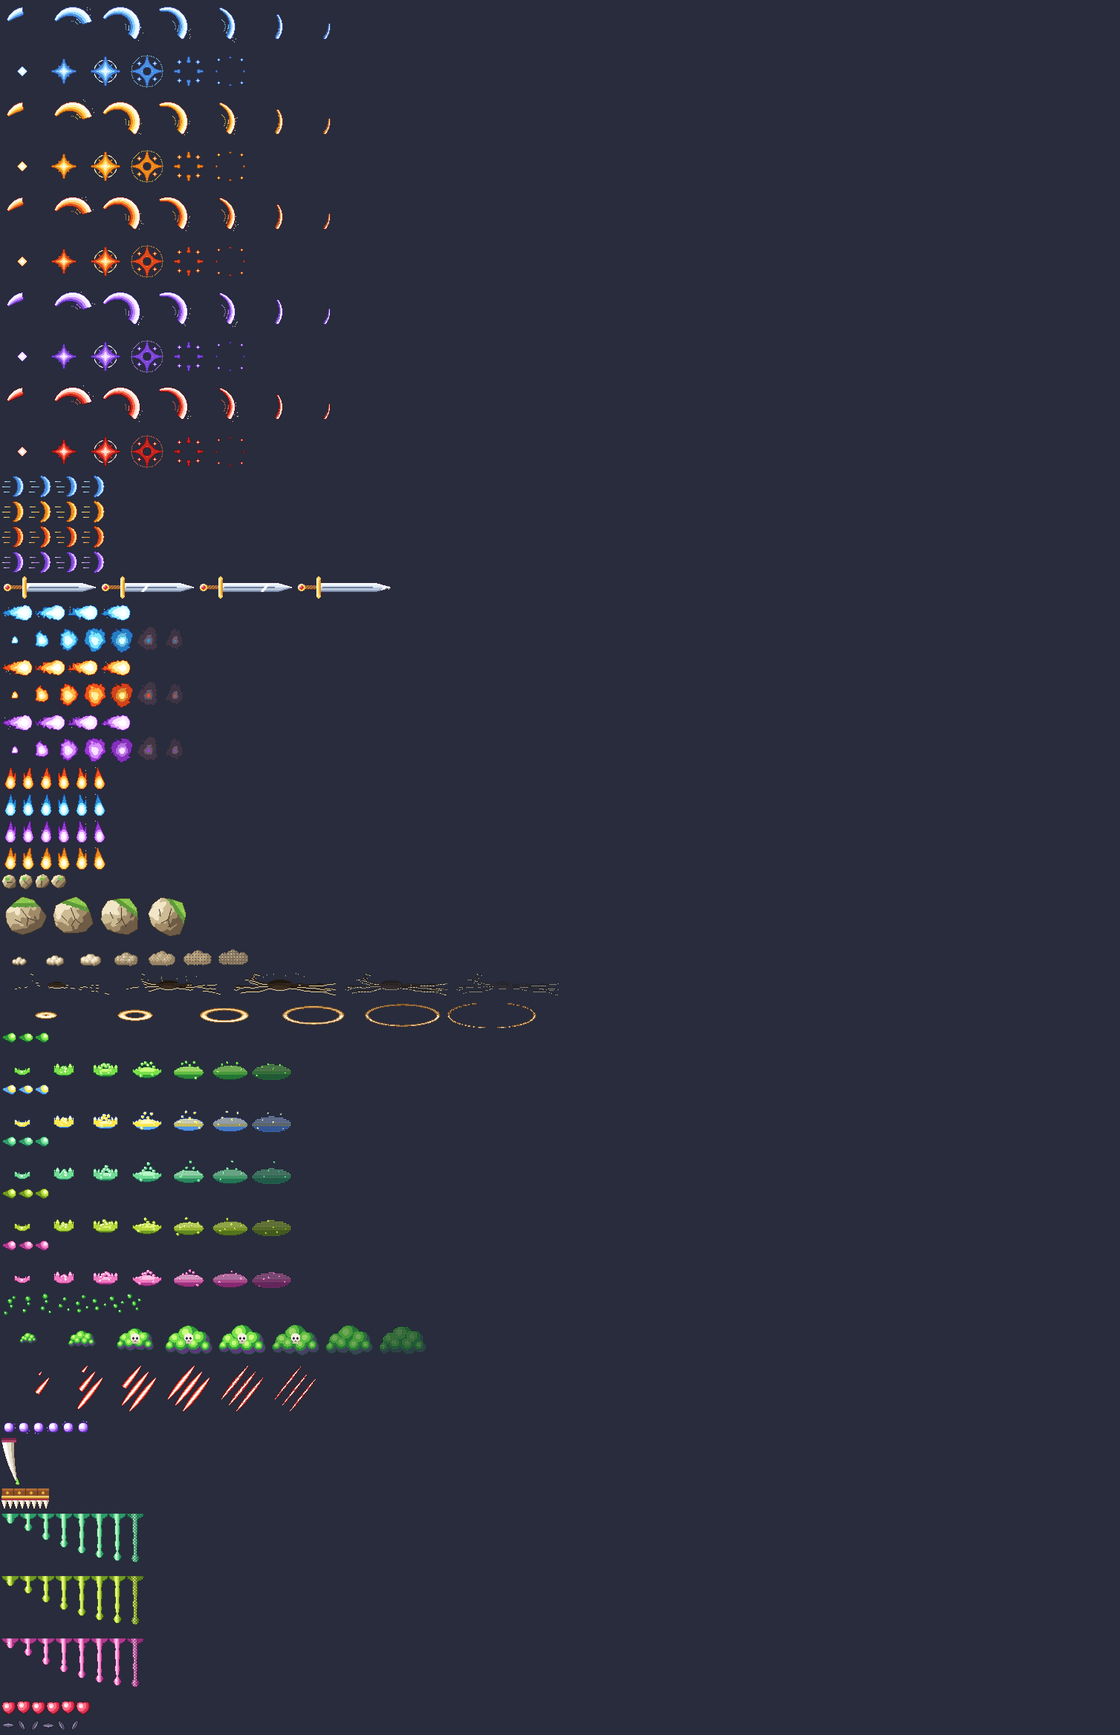
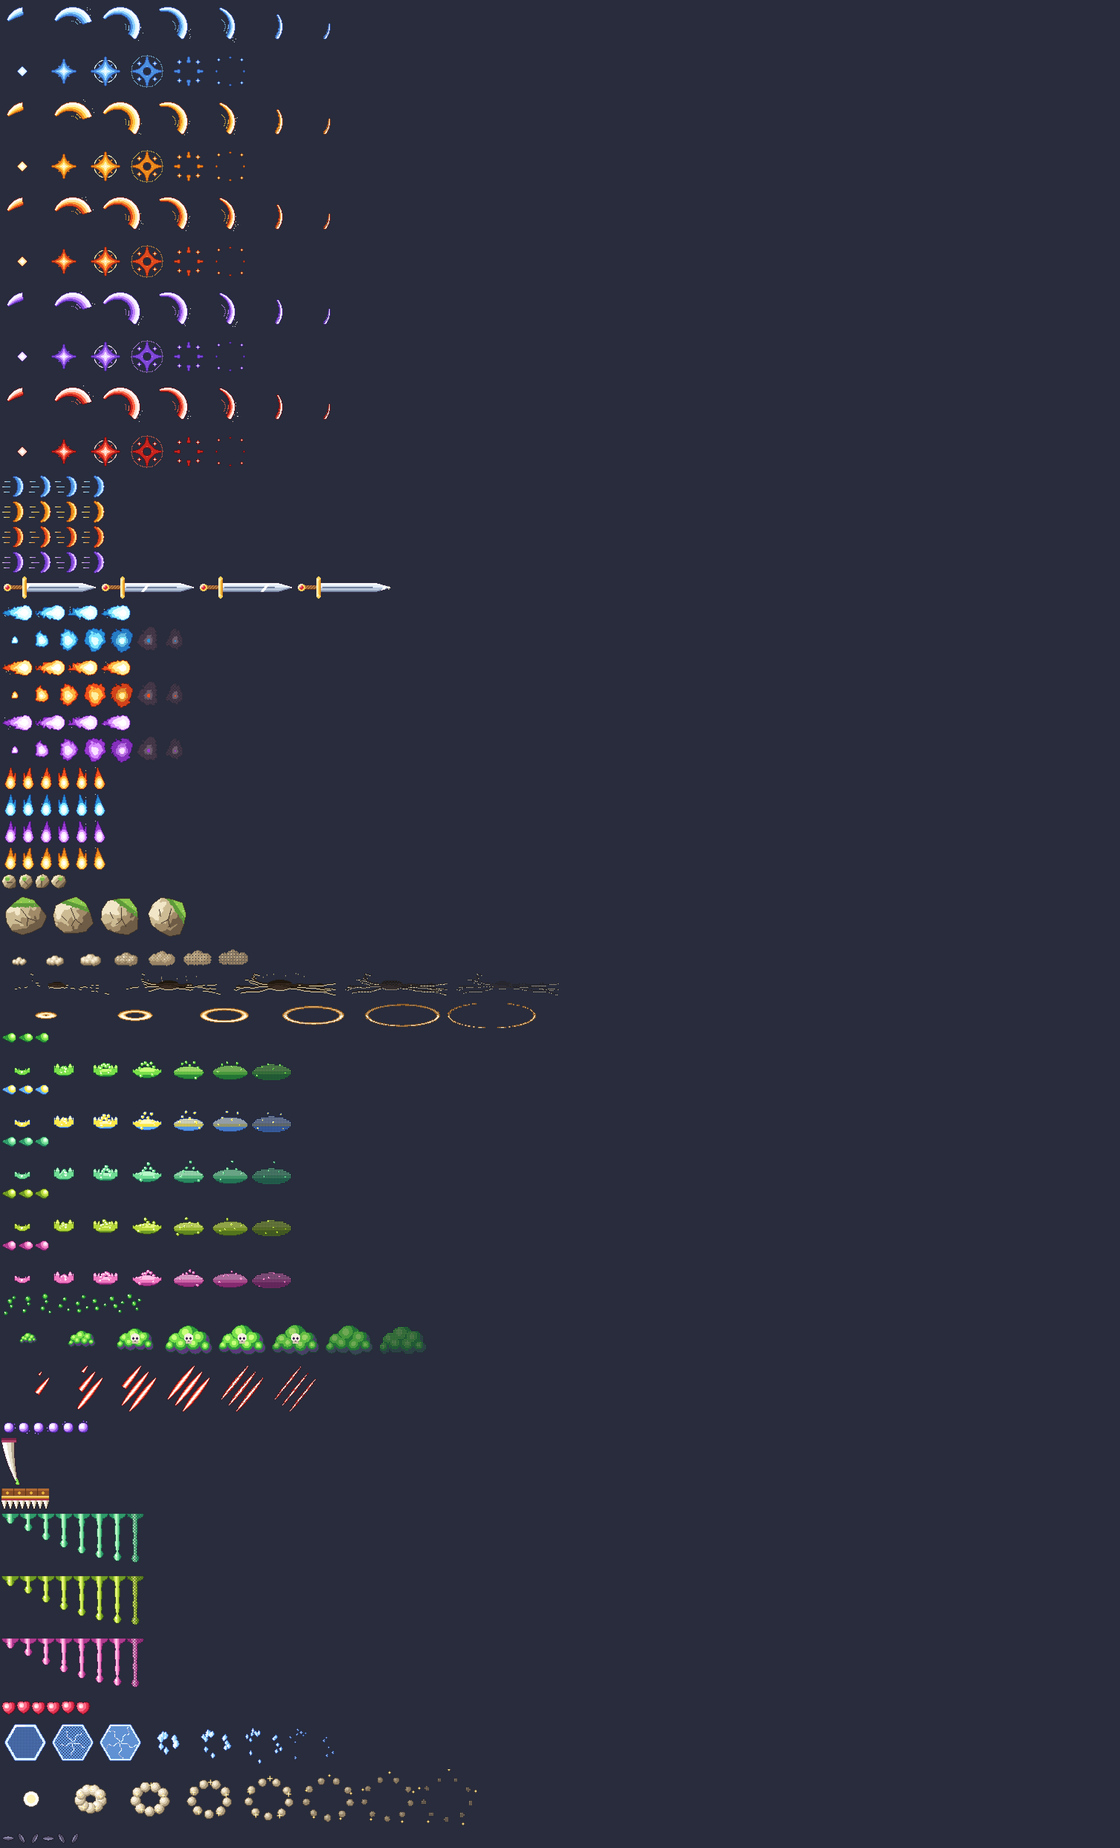
Escudo em pixel art, corações na cura, puf de vitória e lâmina de ouro do estágio 4
- o golpe próprio do vilão (pedra, gota, bola de fogo, orbe) bate na bolha
  hexagonal do escudo, que racha e voa em cacos
- cura com corações em pixel subindo do herói
- vilão derrubado some num puf de fumaça com estrelas (maior no chefe)
- herói a partir do estágio 4 golpeia com a lâmina de ouro

Claude-Session: https://claude.ai/code/session_01Wy17hPtRMz9sgRLvNPhYVz

Changed region(s): [[0.0, 0.0, 0.4052, 1.0]]

diff --git a/src/flashcards/efeitos/vfxIndice.ts b/src/flashcards/efeitos/vfxIndice.ts
@@ -3,4 +3,4 @@
  * Gerado por scripts/sprites/vfx.py: não edite à mão.
  */
 export interface MetaVfx { w: number; h: number; n: number; ms: number; ancora: [number, number]; loop: boolean }
-export const VFX: Record<string, MetaVfx> = {"corte-azul": {"w": 64, "h": 64, "n": 7, "ms": 45, "ancora": [32, 32], "loop": false}, "faisca-azul": {"w": 56, "h": 56, "n": 6, "ms": 50, "ancora": [28, 28], "loop": false}, "corte-ouro": {"w": 64, "h": 64, "n": 7, "ms": 45, "ancora": [32, 32], "loop": false}, "faisca-ouro": {"w": 56, "h": 56, "n": 6, "ms": 50, "ancora": [28, 28], "loop": false}, "corte-fogo": {"w": 64, "h": 64, "n": 7, "ms": 45, "ancora": [32, 32], "loop": false}, "faisca-fogo": {"w": 56, "h": 56, "n": 6, "ms": 50, "ancora": [28, 28], "loop": false}, "corte-arcano": {"w": 64, "h": 64, "n": 7, "ms": 45, "ancora": [32, 32], "loop": false}, "faisca-arcano": {"w": 56, "h": 56, "n": 6, "ms": 50, "ancora": [28, 28], "loop": false}, "corte-sangue": {"w": 64, "h": 64, "n": 7, "ms": 45, "ancora": [32, 32], "loop": false}, "faisca-sangue": {"w": 56, "h": 56, "n": 6, "ms": 50, "ancora": [28, 28], "loop": false}, "lamina-azul": {"w": 36, "h": 30, "n": 4, "ms": 60, "ancora": [24, 15], "loop": true}, "lamina-ouro": {"w": 36, "h": 30, "n": 4, "ms": 60, "ancora": [24, 15], "loop": true}, "lamina-fogo": {"w": 36, "h": 30, "n": 4, "ms": 60, "ancora": [24, 15], "loop": true}, "lamina-arcano": {"w": 36, "h": 30, "n": 4, "ms": 60, "ancora": [24, 15], "loop": true}, "espada": {"w": 132, "h": 30, "n": 4, "ms": 70, "ancora": [6, 15], "loop": false}, "bolafogo-fatuo": {"w": 44, "h": 30, "n": 4, "ms": 70, "ancora": [31, 15], "loop": true}, "labareda-fatuo": {"w": 36, "h": 36, "n": 7, "ms": 60, "ancora": [18, 18], "loop": false}, "bolafogo-escarlate": {"w": 44, "h": 30, "n": 4, "ms": 70, "ancora": [31, 15], "loop": true}, "labareda-escarlate": {"w": 36, "h": 36, "n": 7, "ms": 60, "ancora": [18, 18], "loop": false}, "bolafogo-ancestral": {"w": 44, "h": 30, "n": 4, "ms": 70, "ancora": [31, 15], "loop": true}, "labareda-ancestral": {"w": 36, "h": 36, "n": 7, "ms": 60, "ancora": [18, 18], "loop": false}, "chama-escarlate": {"w": 24, "h": 32, "n": 6, "ms": 90, "ancora": [12, 30], "loop": true}, "chama-fatuo": {"w": 24, "h": 32, "n": 6, "ms": 90, "ancora": [12, 30], "loop": true}, "chama-ancestral": {"w": 24, "h": 32, "n": 6, "ms": 90, "ancora": [12, 30], "loop": true}, "chama-ouro": {"w": 24, "h": 32, "n": 6, "ms": 90, "ancora": [12, 30], "loop": true}, "pedra": {"w": 22, "h": 22, "n": 4, "ms": 70, "ancora": [11, 11], "loop": true}, "pedregulho": {"w": 64, "h": 64, "n": 4, "ms": 90, "ancora": [32, 32], "loop": true}, "poeira": {"w": 48, "h": 32, "n": 7, "ms": 70, "ancora": [24, 30], "loop": false}, "rachadura": {"w": 150, "h": 40, "n": 5, "ms": 80, "ancora": [75, 20], "loop": false}, "choque": {"w": 120, "h": 34, "n": 6, "ms": 55, "ancora": [60, 17], "loop": false}, "gota-veneno": {"w": 22, "h": 18, "n": 3, "ms": 80, "ancora": [13, 9], "loop": true}, "respingo-veneno": {"w": 56, "h": 44, "n": 7, "ms": 60, "ancora": [28, 34], "loop": false}, "gota-eletrico": {"w": 22, "h": 18, "n": 3, "ms": 80, "ancora": [13, 9], "loop": true}, "respingo-eletrico": {"w": 56, "h": 44, "n": 7, "ms": 60, "ancora": [28, 34], "loop": false}, "gota-gosma": {"w": 22, "h": 18, "n": 3, "ms": 80, "ancora": [13, 9], "loop": true}, "respingo-gosma": {"w": 56, "h": 44, "n": 7, "ms": 60, "ancora": [28, 34], "loop": false}, "gota-acida": {"w": 22, "h": 18, "n": 3, "ms": 80, "ancora": [13, 9], "loop": true}, "respingo-acida": {"w": 56, "h": 44, "n": 7, "ms": 60, "ancora": [28, 34], "loop": false}, "gota-rainha": {"w": 22, "h": 18, "n": 3, "ms": 80, "ancora": [13, 9], "loop": true}, "respingo-rainha": {"w": 56, "h": 44, "n": 7, "ms": 60, "ancora": [28, 34], "loop": false}, "bolhas": {"w": 24, "h": 34, "n": 8, "ms": 110, "ancora": [12, 17], "loop": true}, "nuvem-veneno": {"w": 72, "h": 56, "n": 8, "ms": 80, "ancora": [36, 28], "loop": false}, "garras": {"w": 72, "h": 72, "n": 6, "ms": 45, "ancora": [36, 36], "loop": false}, "orbe": {"w": 20, "h": 20, "n": 6, "ms": 70, "ancora": [10, 10], "loop": true}, "presa": {"w": 30, "h": 64, "n": 1, "ms": 100, "ancora": [10, 0], "loop": false}, "mandibula": {"w": 64, "h": 30, "n": 1, "ms": 100, "ancora": [32, 0], "loop": false}, "escorre-gosma": {"w": 24, "h": 80, "n": 8, "ms": 90, "ancora": [12, 0], "loop": false}, "escorre-acida": {"w": 24, "h": 80, "n": 8, "ms": 90, "ancora": [12, 0], "loop": false}, "escorre-rainha": {"w": 24, "h": 80, "n": 8, "ms": 90, "ancora": [12, 0], "loop": false}, "coracao": {"w": 20, "h": 20, "n": 6, "ms": 90, "ancora": [10, 10], "loop": true}, "pena": {"w": 18, "h": 18, "n": 6, "ms": 70, "ancora": [9, 9], "loop": true}}
+export const VFX: Record<string, MetaVfx> = {"corte-azul": {"w": 64, "h": 64, "n": 7, "ms": 45, "ancora": [32, 32], "loop": false}, "faisca-azul": {"w": 56, "h": 56, "n": 6, "ms": 50, "ancora": [28, 28], "loop": false}, "corte-ouro": {"w": 64, "h": 64, "n": 7, "ms": 45, "ancora": [32, 32], "loop": false}, "faisca-ouro": {"w": 56, "h": 56, "n": 6, "ms": 50, "ancora": [28, 28], "loop": false}, "corte-fogo": {"w": 64, "h": 64, "n": 7, "ms": 45, "ancora": [32, 32], "loop": false}, "faisca-fogo": {"w": 56, "h": 56, "n": 6, "ms": 50, "ancora": [28, 28], "loop": false}, "corte-arcano": {"w": 64, "h": 64, "n": 7, "ms": 45, "ancora": [32, 32], "loop": false}, "faisca-arcano": {"w": 56, "h": 56, "n": 6, "ms": 50, "ancora": [28, 28], "loop": false}, "corte-sangue": {"w": 64, "h": 64, "n": 7, "ms": 45, "ancora": [32, 32], "loop": false}, "faisca-sangue": {"w": 56, "h": 56, "n": 6, "ms": 50, "ancora": [28, 28], "loop": false}, "lamina-azul": {"w": 36, "h": 30, "n": 4, "ms": 60, "ancora": [24, 15], "loop": true}, "lamina-ouro": {"w": 36, "h": 30, "n": 4, "ms": 60, "ancora": [24, 15], "loop": true}, "lamina-fogo": {"w": 36, "h": 30, "n": 4, "ms": 60, "ancora": [24, 15], "loop": true}, "lamina-arcano": {"w": 36, "h": 30, "n": 4, "ms": 60, "ancora": [24, 15], "loop": true}, "espada": {"w": 132, "h": 30, "n": 4, "ms": 70, "ancora": [6, 15], "loop": false}, "bolafogo-fatuo": {"w": 44, "h": 30, "n": 4, "ms": 70, "ancora": [31, 15], "loop": true}, "labareda-fatuo": {"w": 36, "h": 36, "n": 7, "ms": 60, "ancora": [18, 18], "loop": false}, "bolafogo-escarlate": {"w": 44, "h": 30, "n": 4, "ms": 70, "ancora": [31, 15], "loop": true}, "labareda-escarlate": {"w": 36, "h": 36, "n": 7, "ms": 60, "ancora": [18, 18], "loop": false}, "bolafogo-ancestral": {"w": 44, "h": 30, "n": 4, "ms": 70, "ancora": [31, 15], "loop": true}, "labareda-ancestral": {"w": 36, "h": 36, "n": 7, "ms": 60, "ancora": [18, 18], "loop": false}, "chama-escarlate": {"w": 24, "h": 32, "n": 6, "ms": 90, "ancora": [12, 30], "loop": true}, "chama-fatuo": {"w": 24, "h": 32, "n": 6, "ms": 90, "ancora": [12, 30], "loop": true}, "chama-ancestral": {"w": 24, "h": 32, "n": 6, "ms": 90, "ancora": [12, 30], "loop": true}, "chama-ouro": {"w": 24, "h": 32, "n": 6, "ms": 90, "ancora": [12, 30], "loop": true}, "pedra": {"w": 22, "h": 22, "n": 4, "ms": 70, "ancora": [11, 11], "loop": true}, "pedregulho": {"w": 64, "h": 64, "n": 4, "ms": 90, "ancora": [32, 32], "loop": true}, "poeira": {"w": 48, "h": 32, "n": 7, "ms": 70, "ancora": [24, 30], "loop": false}, "rachadura": {"w": 150, "h": 40, "n": 5, "ms": 80, "ancora": [75, 20], "loop": false}, "choque": {"w": 120, "h": 34, "n": 6, "ms": 55, "ancora": [60, 17], "loop": false}, "gota-veneno": {"w": 22, "h": 18, "n": 3, "ms": 80, "ancora": [13, 9], "loop": true}, "respingo-veneno": {"w": 56, "h": 44, "n": 7, "ms": 60, "ancora": [28, 34], "loop": false}, "gota-eletrico": {"w": 22, "h": 18, "n": 3, "ms": 80, "ancora": [13, 9], "loop": true}, "respingo-eletrico": {"w": 56, "h": 44, "n": 7, "ms": 60, "ancora": [28, 34], "loop": false}, "gota-gosma": {"w": 22, "h": 18, "n": 3, "ms": 80, "ancora": [13, 9], "loop": true}, "respingo-gosma": {"w": 56, "h": 44, "n": 7, "ms": 60, "ancora": [28, 34], "loop": false}, "gota-acida": {"w": 22, "h": 18, "n": 3, "ms": 80, "ancora": [13, 9], "loop": true}, "respingo-acida": {"w": 56, "h": 44, "n": 7, "ms": 60, "ancora": [28, 34], "loop": false}, "gota-rainha": {"w": 22, "h": 18, "n": 3, "ms": 80, "ancora": [13, 9], "loop": true}, "respingo-rainha": {"w": 56, "h": 44, "n": 7, "ms": 60, "ancora": [28, 34], "loop": false}, "bolhas": {"w": 24, "h": 34, "n": 8, "ms": 110, "ancora": [12, 17], "loop": true}, "nuvem-veneno": {"w": 72, "h": 56, "n": 8, "ms": 80, "ancora": [36, 28], "loop": false}, "garras": {"w": 72, "h": 72, "n": 6, "ms": 45, "ancora": [36, 36], "loop": false}, "orbe": {"w": 20, "h": 20, "n": 6, "ms": 70, "ancora": [10, 10], "loop": true}, "presa": {"w": 30, "h": 64, "n": 1, "ms": 100, "ancora": [10, 0], "loop": false}, "mandibula": {"w": 64, "h": 30, "n": 1, "ms": 100, "ancora": [32, 0], "loop": false}, "escorre-gosma": {"w": 24, "h": 80, "n": 8, "ms": 90, "ancora": [12, 0], "loop": false}, "escorre-acida": {"w": 24, "h": 80, "n": 8, "ms": 90, "ancora": [12, 0], "loop": false}, "escorre-rainha": {"w": 24, "h": 80, "n": 8, "ms": 90, "ancora": [12, 0], "loop": false}, "coracao": {"w": 20, "h": 20, "n": 6, "ms": 90, "ancora": [10, 10], "loop": true}, "escudo": {"w": 64, "h": 64, "n": 7, "ms": 60, "ancora": [32, 32], "loop": false}, "puf": {"w": 80, "h": 80, "n": 8, "ms": 70, "ancora": [40, 40], "loop": false}, "pena": {"w": 18, "h": 18, "n": 6, "ms": 70, "ancora": [9, 9], "loop": true}}

diff --git a/src/flashcards/componentes/Arena.tsx b/src/flashcards/componentes/Arena.tsx
@@ -1,6 +1,6 @@
 import { Volume } from './Volume'
 import { carregarFaixas } from '../dados/faixas'
-import { INVESTIDA, atacar, estiloDe, soprar, tomFogo, type Impacto } from '../efeitos/ataques'
+import { INVESTIDA, atacar, estiloDe, projetilDoEstilo, soprar, tomFogo, type Impacto } from '../efeitos/ataques'
 import { TABULEIRO } from '../efeitos/tabuleiros'
 import { useCallback, useEffect, useMemo, useRef, useState } from 'react'
 import { gravar, ler } from '../../estado/armazenamento'
@@ -447,7 +447,7 @@ function ArenaJogo({ modo: modoJogo, abrirEstudo }: { modo: Modo; abrirEstudo: b
           tocar('disparo', forte ? 1.2 : 1)
           window.setTimeout(() => { if (g === geracao.current) definirMostrado((m) => ({ ...m, revelada: true })) }, 240 * fator)
           // a lâmina de energia em pixel art (a cor conta a história: azul, ouro no combo, fogo no 5+, arcano no golpe duplo)
-          const tom = ev.duplo ? 'arcano' : ev.critico ? 'ouro' : combo >= 5 ? 'fogo' : combo >= COMBO_MINIMO ? 'ouro' : 'azul'
+          const tom = ev.duplo ? 'arcano' : ev.critico ? 'ouro' : combo >= 5 ? 'fogo' : combo >= COMBO_MINIMO || depois.estagio >= 4 ? 'ouro' : 'azul'
           const px = pixelVfx()
           if (P && (ev.critico || ev.duplo) && !reduzido) {
             // crítico: a espada gigante atravessa a tela na diagonal e rasga o ar
@@ -550,8 +550,12 @@ function ArenaJogo({ modo: modoJogo, abrirEstudo }: { modo: Modo; abrirEstudo: b
           if (!(await esperar(180, g))) return
           const de = centro(refInimigo.current), para = centro(refHeroi.current)
           tocar('golpe-inimigo', 1, quemInimigo)
-          if (P) await P.projetil(de, para, { cor: '#ff5a3c', nucleo: '#ffd0c0', tam: 14, duracao: 0.32, curva: -0.25 })
+          // o golpe próprio do adversário vem e bate na bolha do escudo (pixel art)
+          const proj = projetilDoEstilo(estiloDe(adv.sprite, adv.variante), adv.variante)
+          if (P && proj) await P.voar(proj, de, para, { duracao: 0.32, curva: -0.25, escala: pixelVfx() * 1.2 })
+          else if (P) { P.linhas(para, '#fff1c2', 12); await new Promise((r) => window.setTimeout(r, 140)) }
           if (g !== geracao.current) return
+          P?.efeito('escudo', para, { escala: pixelVfx() * 1.4, brilho: '#7fb8ff' })
           animar(refHeroi.current, 'fc-anim-bloqueio', 640)
           P?.onda(para, '#7fb8ff', 110, 16)
           P?.clarao(para, '#5fa8ff', 260, 0.9)
@@ -573,7 +577,8 @@ function ArenaJogo({ modo: modoJogo, abrirEstudo }: { modo: Modo; abrirEstudo: b
           break
         }
         case 'cura': {
-          P?.subir(centro(refHeroi.current), '#7fe08f', 28, 70)
+          P?.subir(centro(refHeroi.current), '#7fe08f', 20, 70)
+          { const h = centro(refHeroi.current); for (let k = 0; k < Math.min(4, 1 + Math.floor(ev.valor / 6)); k++) P?.efeito('coracao', { x: h.x + (k - 1.5) * 20 + (Math.random() - 0.5) * 8, y: h.y }, { escala: pixelVfx(), vy: -80 - k * 10, atraso: k * 0.08, vida: 0.95, laco: true, some: 0.35 }) }
           P?.clarao(centro(refHeroi.current), '#5fdc7a', 200, 0.7, 0.6)
           animar(refHeroi.current, 'fc-anim-cura', 900)
           tocar('cura')
@@ -630,7 +635,10 @@ function ArenaJogo({ modo: modoJogo, abrirEstudo }: { modo: Modo; abrirEstudo: b
         case 'inimigo-derrotado': {
           if (!(await esperar(240, g))) return
           const caixa = refInimigo.current?.getBoundingClientRect()
-          if (caixa) { P?.dissolver(caixa, PALETA_PERSONAGEM[quemInimigo]); P?.fragmentos(centro(refInimigo.current), PALETA_PERSONAGEM[quemInimigo], 40, 520) }
+          if (caixa) { P?.dissolver(caixa, PALETA_PERSONAGEM[quemInimigo]); P?.fragmentos(centro(refInimigo.current), PALETA_PERSONAGEM[quemInimigo], 30, 520) }
+          // o "puf" de vitória em pixel art, maior no chefe, com estrelas
+          P?.efeito('puf', centro(refInimigo.current), { escala: pixelVfx() * (ev.chefe ? 2.4 : 1.7) })
+          P?.efeito('faisca-ouro', centro(refInimigo.current), { escala: pixelVfx() * (ev.chefe ? 2 : 1.4), atraso: 0.06 })
           P?.clarao(centro(refInimigo.current), '#ffe08a', 500, 1, 0.8)
           definirMostrado((m) => ({ ...m, inimigoCaiu: true }))
           posar(refHeroi, 'vitoria', 1800)

diff --git a/src/flashcards/efeitos/ataques.ts b/src/flashcards/efeitos/ataques.ts
@@ -57,6 +57,18 @@ const IMPACTO: Record<Estilo, Impacto> = {
   fogo: { cor: '#7fe0ff', cor2: '#e8ffff', material: ['#d9cdb0', '#7fe0ff', '#ffffff'], garras: false },
 }
 
+/** Projétil em pixel art de cada estilo (usado também quando o escudo bloqueia). */
+export function projetilDoEstilo(estilo: Estilo, variante?: string): string | null {
+  switch (estilo) {
+    case 'pedra': return 'pedra'
+    case 'veneno': return `gota-${variante === 'eletrica' ? 'eletrico' : 'veneno'}`
+    case 'gosma': return `gota-${variante === 'acida' ? 'acida' : variante === 'rainha' ? 'rainha' : 'gosma'}`
+    case 'fogo': return `bolafogo-${tomFogo(variante)}`
+    case 'magia': return 'orbe'
+    default: return null
+  }
+}
+
 /** Tom do fogo do dragão e da gosma conforme a variante do bestiário. */
 export const tomFogo = (variante?: string) => (variante === 'escarlate' ? 'escarlate' : variante === 'ancestral' ? 'ancestral' : 'fatuo')
 const tomGosma = (variante?: string) => (variante === 'acida' ? 'acida' : variante === 'rainha' ? 'rainha' : 'gosma')

diff --git a/scripts/sprites/vfx.py b/scripts/sprites/vfx.py
@@ -853,6 +853,79 @@ def pena(n=6, W=18, base=('#3a3448', '#5a5470', '#8a86a8')):
     return quadros
 
 
+def escudo_quebra(n=7, W=64):
+    """Bolha de escudo (azul, hexagonal) que segura o golpe, racha e voa em cacos."""
+    pal = ['#ffffff', '#dff6ff', '#8fd3ff', '#4a8fe0', '#2f4fa8']
+    rng = np.random.default_rng(31)
+    cacos = [(rng.uniform(0, 2 * math.pi), rng.uniform(0.6, 1.0)) for _ in range(14)]
+    quadros = []
+    for k in range(n):
+        q = Q(W, W)
+        c = W / 2
+        dx, dy = q.x - c, q.y - c
+        # hexágono: distância pelo maior dos três eixos
+        hexd = np.maximum(np.abs(dx) * 0.866 + np.abs(dy) * 0.5, np.abs(dy))
+        R = 24
+        if k <= 2:
+            borda = (hexd <= R) & (hexd > R - (3 if k == 0 else 2.2))
+            dentro = (hexd <= R - 2) & dither(q, 0.25 + 0.1 * k)
+            q.pinta(dentro, pal[2]); q.pinta(borda, pal[1])
+            q.pinta(borda & (dy < -R * 0.4) & (dx < 0), pal[0])
+            if k >= 1:
+                # rachaduras saindo do ponto do impacto (o centro)
+                for i in range(5):
+                    a = i / 5 * 2 * math.pi + 0.3
+                    for r in range(2, int(R * (0.5 + 0.25 * k))):
+                        px_ = int(c + math.cos(a + math.sin(r * 0.5) * 0.15) * r); py_ = int(c + math.sin(a + math.sin(r * 0.5) * 0.15) * r)
+                        q.a[py_, px_] = cor(pal[0])
+        else:
+            t = (k - 2) / (n - 3)
+            for i, (a, v) in enumerate(cacos):
+                r = 6 + t * 26 * v
+                px_, py_ = c + math.cos(a) * r, c + math.sin(a) * r + t * t * 10
+                tam = max(1.2, 4.2 * (1 - t * 0.7))
+                m = (np.abs(q.x - px_) + np.abs(q.y - py_) * 0.7) <= tam
+                if k == n - 1:
+                    m &= dither(q, 0.5)
+                q.pinta(m, pal[1] if i % 3 else pal[0]); q.pinta(m & (q.x > px_), pal[2])
+        q.contorno(pal[4])
+        quadros.append(q.a)
+    return quadros
+
+
+def puf(n=8, W=80):
+    """Explosão de vitória: clarão, anel de fumacinhas brancas e estrelas que se abrem."""
+    pal = ['#ffffff', '#fff4b8', '#ffd25a', '#c8b48e', '#6a5a46']
+    quadros = []
+    for k in range(n):
+        q = Q(W, W)
+        c = W / 2
+        t = k / (n - 1)
+        if k == 0:
+            q.pinta(np.hypot(q.x - c, q.y - c) <= 10, pal[0]); q.pinta(np.hypot(q.x - c, q.y - c) <= 6, pal[1])
+        else:
+            # fumacinhas em anel
+            for i in range(9):
+                a = i / 9 * 2 * math.pi + 0.2
+                r = 8 + 24 * (1 - (1 - t) ** 2)
+                bx, by = c + math.cos(a) * r, c + math.sin(a) * r * 0.85
+                rr = 7 * (1 - t * 0.75) + 1
+                d = np.hypot(q.x - bx, q.y - by)
+                m = d <= rr
+                if k >= 5:
+                    m &= ~dither(q, (k - 4) * 0.25)
+                luz = np.hypot(q.x - bx + rr * 0.35, q.y - by + rr * 0.35) / max(rr, 1)
+                pinta_rampa(q, m, np.clip(luz * 0.6 + t * 0.5, 0, 0.999), ['#ffffff', '#f4ead6', '#d8c8a8', '#a8977a'])
+            # estrelas de 4 pontas voando para fora
+            for i in range(5):
+                a = i / 5 * 2 * math.pi + 1.0
+                r = 10 + 30 * t
+                brilhinho(q, c + math.cos(a) * r, c + math.sin(a) * r, 3 if k < 5 else 1, pal)
+        q.contorno('#5a4a3a')
+        quadros.append(q.a)
+    return quadros
+
+
 # ================================================================== registro
 
 def efeitos():
@@ -889,6 +962,8 @@ def efeitos():
     for tom in ('gosma', 'acida', 'rainha'):
         add(f'escorre-{tom}', gota_tela(PAL[tom]), 90, [12, 0])
     add('coracao', coracao(), 90, loop=True)
+    add('escudo', escudo_quebra(), 60)
+    add('puf', puf(), 70)
     add('pena', pena(), 70, loop=True)
     return E
 

diff --git a/docs/PLANO-DE-IDEIAS.md b/docs/PLANO-DE-IDEIAS.md
@@ -32,10 +32,10 @@ Legenda: `[x]` feito · `[~]` em andamento · `[ ]` a fazer · (T) depende do Ta
 9. [x] Gosma: no crítico, a gosma escorre do alto da tela.
 10. [x] Raptor, corvo e aranha: no crítico, rasgos gigantes de garra; guardião e esqueleto: pancada que racha o chão.
 11. [x] 47 tiras de efeito pintadas por `scripts/sprites/vfx.py` (prévias em `docs/flashcards/conceitos/vfx-previa-*.png`).
-12. [ ] Golpe do herói muda com o estágio: estágio 4 com rastro de ouro, estágio 6 com aura de pérola.
-13. [ ] Efeito de bloqueio do escudo em pixel art (hoje ainda usa o projétil antigo).
-14. [ ] Efeitos de cura em pixel art (corações subindo) também na Batalha, não só no veneno.
-15. [ ] "Finisher": o golpe que derruba o vilão ganha câmera lenta, zoom e confete de pixels.
+12. [x] Golpe do herói muda com o estágio: a partir do estágio 4, a lâmina é de ouro.
+13. [x] Efeito de bloqueio do escudo em pixel art (hoje ainda usa o projétil antigo).
+14. [x] Efeitos de cura em pixel art (corações subindo) também na Batalha, não só no veneno.
+15. [x] Golpe final: o vilão derrubado some num "puf" de fumaça em pixel art, com estrelas, maior no chefe.
 16. [ ] Número de dano em fonte pixel (bitmap própria), com quique e contorno.
 17. [ ] Som próprio para cada golpe novo: espada gigante, mandíbula, pedregulho e sopro.
 18. [ ] Variante do pedregulho por golem: cristal, obsidiana, rubro e cimento.
@@ -146,3 +146,4 @@ Pedido do Tales em 14/10: mudar o humor da fase conforme a pessoa acerta ou erra
 - **14/10/2026:** Humor da Biblioteca (ideias 26 a 31), no PR #228. Fica em `src/flashcards/componentes/ClimaEstudo.tsx` (limiares em `HUMOR`), as chamas são `chama-*` em `vfx.py` e há aviso flutuante no celular.
 - **14/10/2026:** Rankings: pódio em pixel art refeito do zero (`scripts/cenarios/podio.py` e `src/componentes/PodioPixel.tsx`), com cena de festa no ranking das questões e cena de cripta no dos Flashcards, além da página dos Flashcards com tema de pedra e tochas (ideias 58 e 59). Prévia sem servidor: `#/ranking?demo=1` e `#/ranking?aba=flashcards&demo=1`, só no modo de desenvolvimento.
 - **14/10/2026:** Jardim Suspenso (ideia 42): andar a céu aberto dentro da cripta, com paredes em ruína, abóbada partida, cachoeira, lago com vitórias-régias e cerejeira. Fica em `scripts/cenarios/jardim.py` (cena `jardim`, também usada pela Gosma de Cimento e pelo Escaravelho). Os chefes do jardim continuam lá.
+- **14/10/2026:** PR #228 mesclado. Depois: escudo em pixel art (o golpe do vilão bate na bolha e ela se estilhaça), corações na cura, "puf" de vitória e lâmina de ouro a partir do estágio 4 (ideias 12 a 15).
